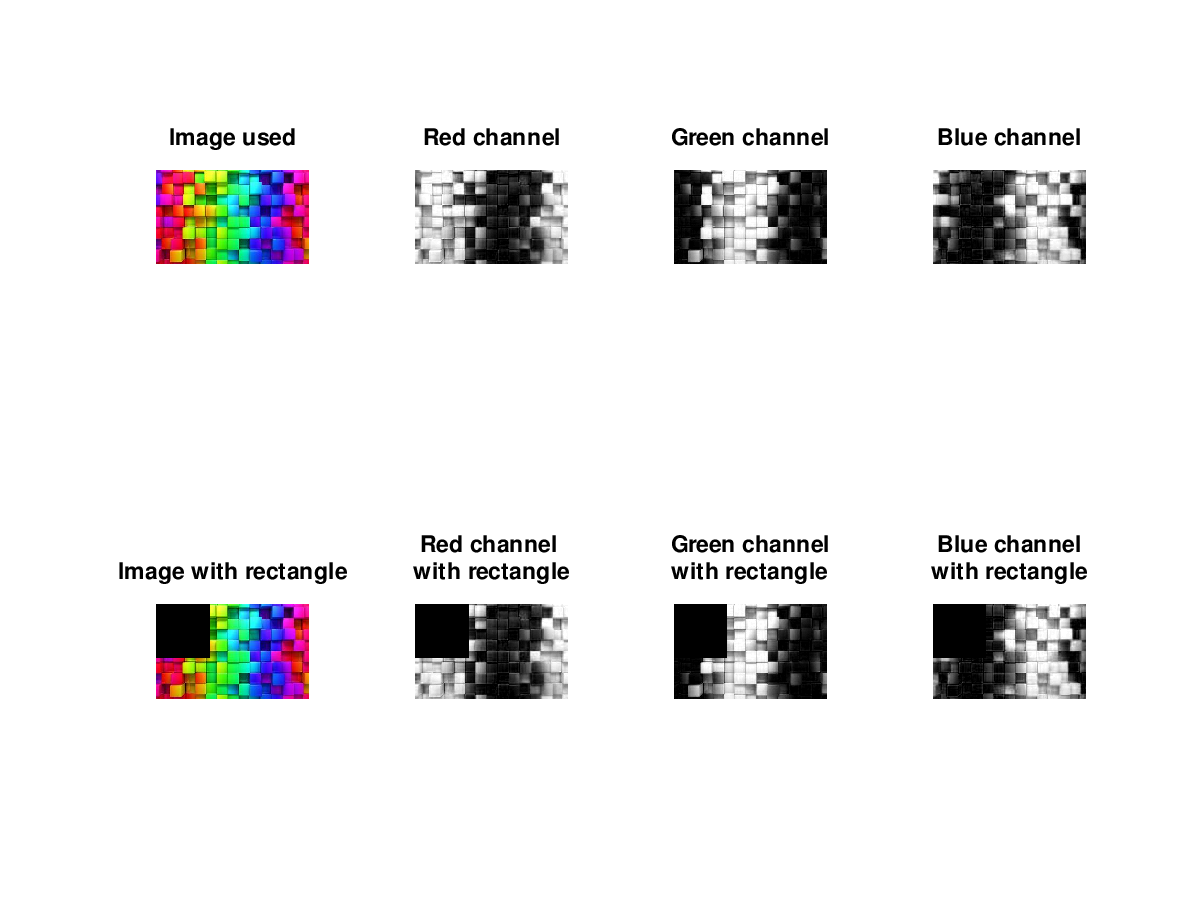
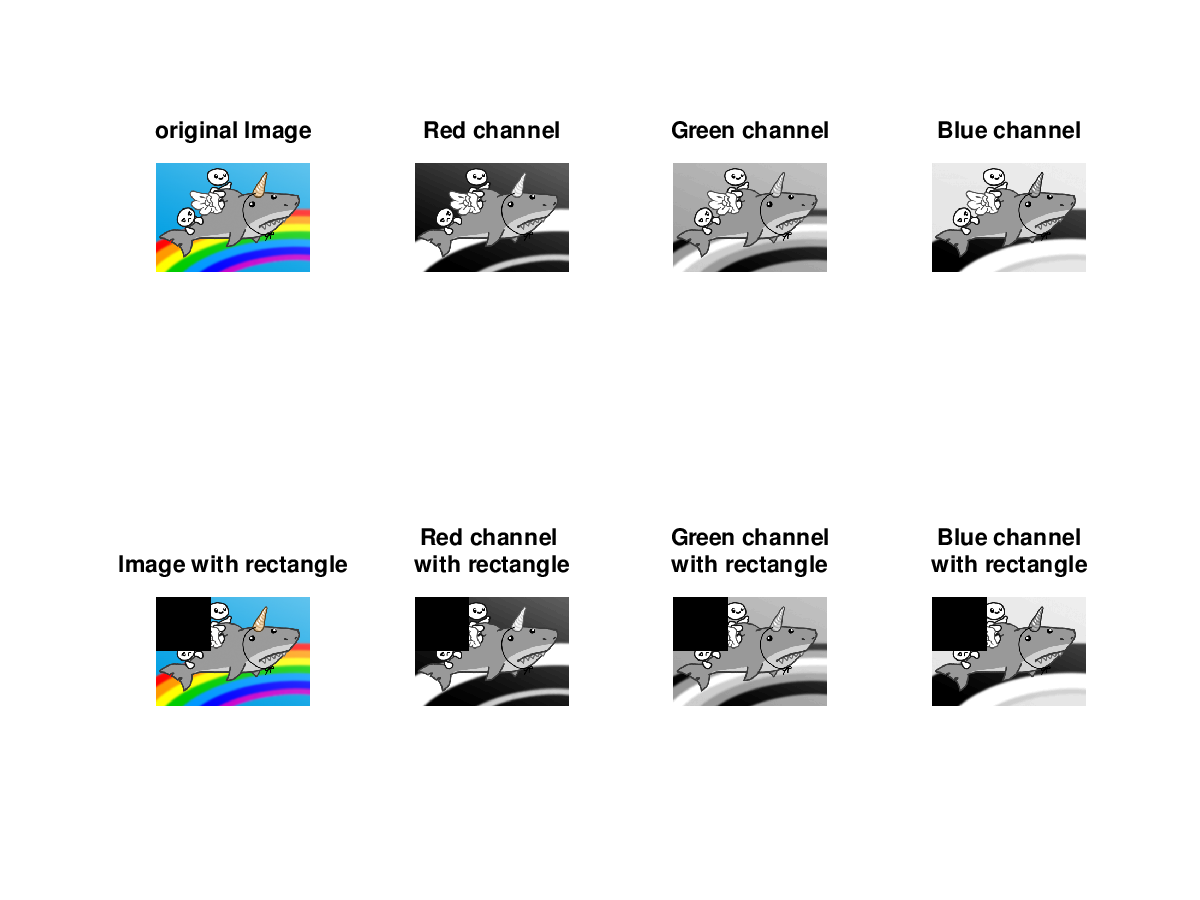
pipapo

diff --git a/1/A3_exercises.m b/1/A3_exercises.m
@@ -1,51 +1,56 @@
-% Load image
-img_with_rectangle = img = imread('A3_image.png');
+% load image:
+original_img = imread('RandomImage.png');
 
-% Split image-channels into grayscale images
-red_img_with_rectangle = red_img = img(:,:,1);
-green_img_with_rectangle = green_img = img(:,:,2);
-blue_img_with_rectangle = blue_img = img(:,:,3);
+% get red, green and blue channels:
+img_red = original_img(:,:,1);
+img_green = original_img(:,:,2);
+img_blue = original_img(:,:,3);
 
-% Make a black rectangle by setting values in its range to 0
-% Note that the "image coordinate system" is luckily in the upper left corner already
-img_with_rectangle(1:100,1:100,:) = 0;
-red_img_with_rectangle(1:100,1:100) = 0;
-green_img_with_rectangle(1:100,1:100) = 0;
-blue_img_with_rectangle(1:100,1:100) = 0;
+%...LESEZEICHEN!!!
+original_img_with_rectangle=original_img;
+original_img_with_rectangle([1:100],[1:100],:) = 0;
 
-%Plot each image with and without a black rectangle
-figure(1);
+img_red_with_rectangle=img_red;
+img_red_with_rectangle(1:100,1:100) = 0;
+
+img_green_with_rectangle= img_green;
+img_green_with_rectangle(1:100,1:100) = 0;
+
+img_blue_with_rectangle=img_blue;
+img_blue_with_rectangle(1:100,1:100) = 0;
+
+%Plot stuff:
 
 subplot(2,4,1);
-imshow(img);
-title("Image used");
+imshow(original_img);
+title("original Image");
 
 subplot(2,4,2);
-imshow(red_img);
+imshow(img_red);
 title("Red channel");
 
 subplot(2,4,3);
-imshow(green_img);
+imshow(img_green);
 title("Green channel");
 
 subplot(2,4,4);
-imshow(blue_img);
+imshow(img_blue);
 title("Blue channel");
 
 subplot(2,4,5);
-imshow(img_with_rectangle);
+imshow(original_img_with_rectangle);
 title("Image with rectangle");
 
 subplot(2,4,6);
-imshow(red_img_with_rectangle);
+imshow(img_red_with_rectangle);
 title("Red channel \nwith rectangle");
 
 subplot(2,4,7);
-imshow(green_img_with_rectangle);
+imshow(img_green_with_rectangle);
 title("Green channel\nwith rectangle");
 
 subplot(2,4,8);
-imshow(blue_img_with_rectangle);
+imshow(img_blue_with_rectangle);
 title("Blue channel\nwith rectangle");
 
 % Save plot
